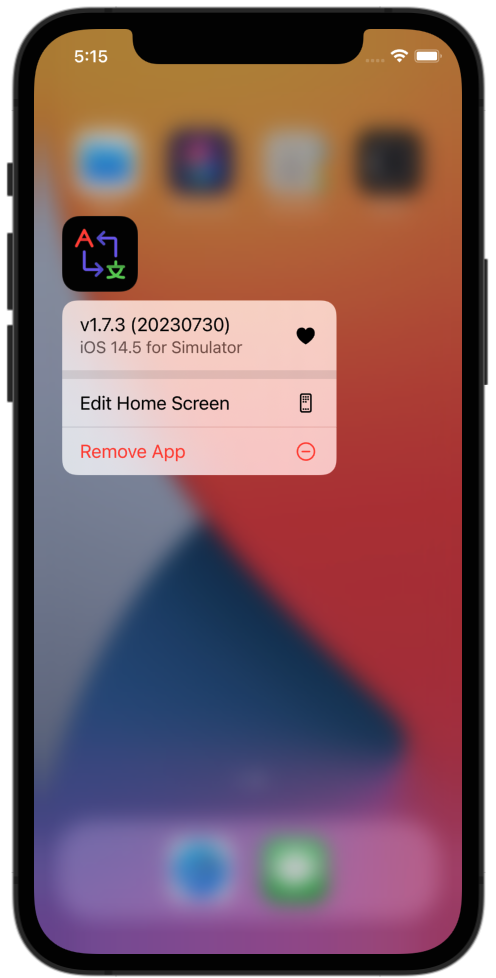
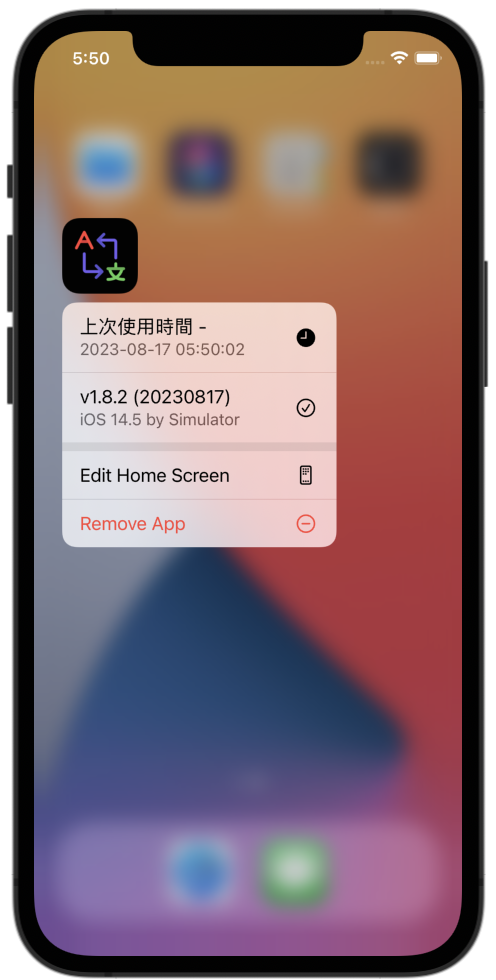
- 加上上次使用時間的ShortItem顯示

diff --git a/Vocabulary/AppDelegate.swift b/Vocabulary/AppDelegate.swift
@@ -164,7 +164,7 @@ private extension AppDelegate {
         initCurrentTableName()
         initDatabase()
         backgroundPlayAudio()
-        appVersionShortcutItem(with: application)
+        appShortcutItem(with: application)
         
         backgroundBarColor(.black.withAlphaComponent(0.1))
         
@@ -297,17 +297,41 @@ private extension AppDelegate {
     
     /// [設定ShortcutItem](https://www.jianshu.com/p/e49b8bfea475)
     /// - Parameter application: UIApplication
-    func appVersionShortcutItem(with application: UIApplication) {
+    func appShortcutItem(with application: UIApplication) {
+        
+        let launchTimeShortcutItem = appLaunchTimeShortcutItem(with: application)
+        let versionShortcutItem = appVersionShortcutItem(with: application)
+        
+        application.shortcutItems = [launchTimeShortcutItem, versionShortcutItem]
+    }
+    
+    /// 產生版本號的ShortcutItem
+    /// - Parameter application: UIApplication
+    /// - Returns: UIApplicationShortcutItem
+    func appVersionShortcutItem(with application: UIApplication) -> UIApplicationShortcutItem {
         
         let version = Bundle.main._appVersion()
         let installType = WWAppInstallSource.shared.detect() ?? .Simulator
         let info = UIDevice._systemInformation()
         let icon = UIApplicationShortcutIcon(type: .confirmation)
         let title = "v\(version.app) (\(version.build))"
-        let subtitle = "\(info.name) \(info.version) for \(installType.rawValue)"
+        let subtitle = "\(info.name) \(info.version) by \(installType.rawValue)"
         let shortcutItem = UIApplicationShortcutItem._build(localizedTitle: title, localizedSubtitle: subtitle, icon: icon)
         
-        application.shortcutItems = [shortcutItem]
+        return shortcutItem
+    }
+    
+    /// 產生該上次使用時間的ShortcutItem
+    /// - Parameter application: UIApplication
+    /// - Returns: UIApplicationShortcutItem
+    func appLaunchTimeShortcutItem(with application: UIApplication) -> UIApplicationShortcutItem {
+        
+        let icon = UIApplicationShortcutIcon(type: .time)
+        let title = "上次使用時間 -"
+        let subtitle = "\(Date()._localTime(timeZone: .current))"
+        let shortcutItem = UIApplicationShortcutItem._build(localizedTitle: title, localizedSubtitle: subtitle, icon: icon)
+        
+        return shortcutItem
     }
 }
 
